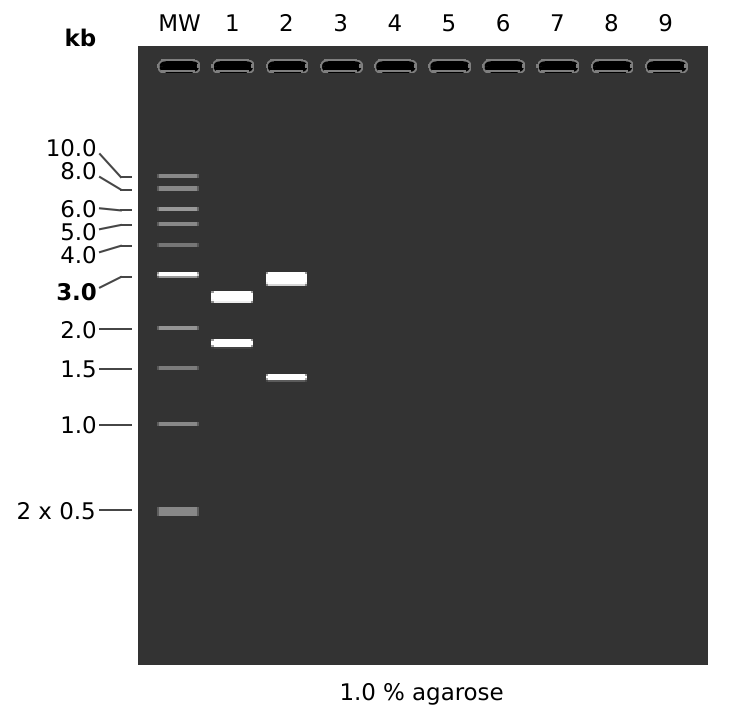
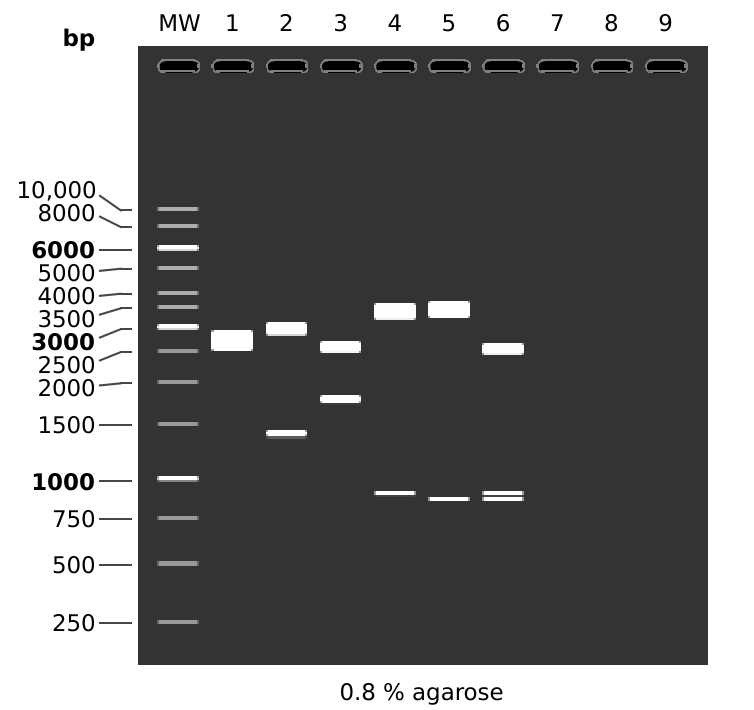
add notes on restriction digests run today

diff --git a/experiments/VR-inserts/7_7-28-21.md b/experiments/VR-inserts/7_7-28-21.md
@@ -1,0 +1,78 @@
+# Confirming identity of pFC53tac
+
+Today I am working on confirming the identity of the pFC53tac sample
+that I prepared via midi prep using restriction digests.
+
+## pFC53tac restriction digests
+
+I digested ~200 ng of pFC53tac sample using the assay design below.
+
+![](images/Gel_Image_pFC53-tac-midi-prep-digest.png)
+
+```
+MW:  1 kb DNA Ladder
+
+1:  pFC53tacT1T2
+       1. 4320 bp
+
+2:  pFC53tacT1T2
+    HindIII + KpnI
+       1. 2935 bp
+       2. 1385 bp
+
+3:  pFC53tacT1T2
+    EcoRI + XbaI
+       1. 2574 bp
+       2. 1746 bp
+
+4:  pFC53tacT1T2
+    MfeI + BamHI
+       1. 3419 bp
+       2. 901 bp
+
+5:  pFC53tacT1T2
+    MfeI + KpnI
+       1. 3458 bp
+       2. 862 bp
+
+6:  pFC53tacT1T2
+    MfeI + KpnI + BamHI
+       1. 2557 bp
+       2. 901 bp
+       3. 862 bp
+```
+
+### Reagents
+
+Each reaction had a total volume of 10ul and used 10x CutSmart buffer. All
+reactions were incubated at 37C for 30 mins.
+
+| Reagent    | Lot number | Expiration date |
+| ---------- | ---------- | --------------- |
+| BamHI-HF   | 0101508    | 8/17            |
+| KpnI-HF    | 0061508    | 8/17            |
+| HindIII=HF | 0061508    | 8/17            |
+| XbaI       | 0431803    | 3/20            |
+| EcoRI-HF   | 10026002   | 10/20           |
+
+
+### Results
+
+Ran 0.08 gel at 120 V for 45 mins in TAE. EtBr in agarose and running buffer.
+
+![](images/pFC53tac-midi-prep-digest-labeled.png)
+
+When first looking at these results the EcoRI-XbaI and digests using MfeI
+did not make sense. I was not sure what was causing the double band in the
+EcoRI-XbaI digest and it seemed like I forgot to add MfeI to those digests.
+I talked to Fred about this and he mentioned that pFC8tac actually has
+2 EcoRI sites which could explain the double band. pFC8tac also does not
+have an MfeI site. I simulated this digest on pFC8tac and the results are
+shown below.
+
+![](images/Gel_Image_simulated_pFC8tac_digest.png)
+
+This matches the results of the actual digest very well which leads me
+to believe that the stock pFC53tac is mislabeled and is in fact pFC8tac. Tomorrow I will confirm this by repeating this same digest on the stock
+I used in for the original midi prep and on pFC8tac stock.
+
